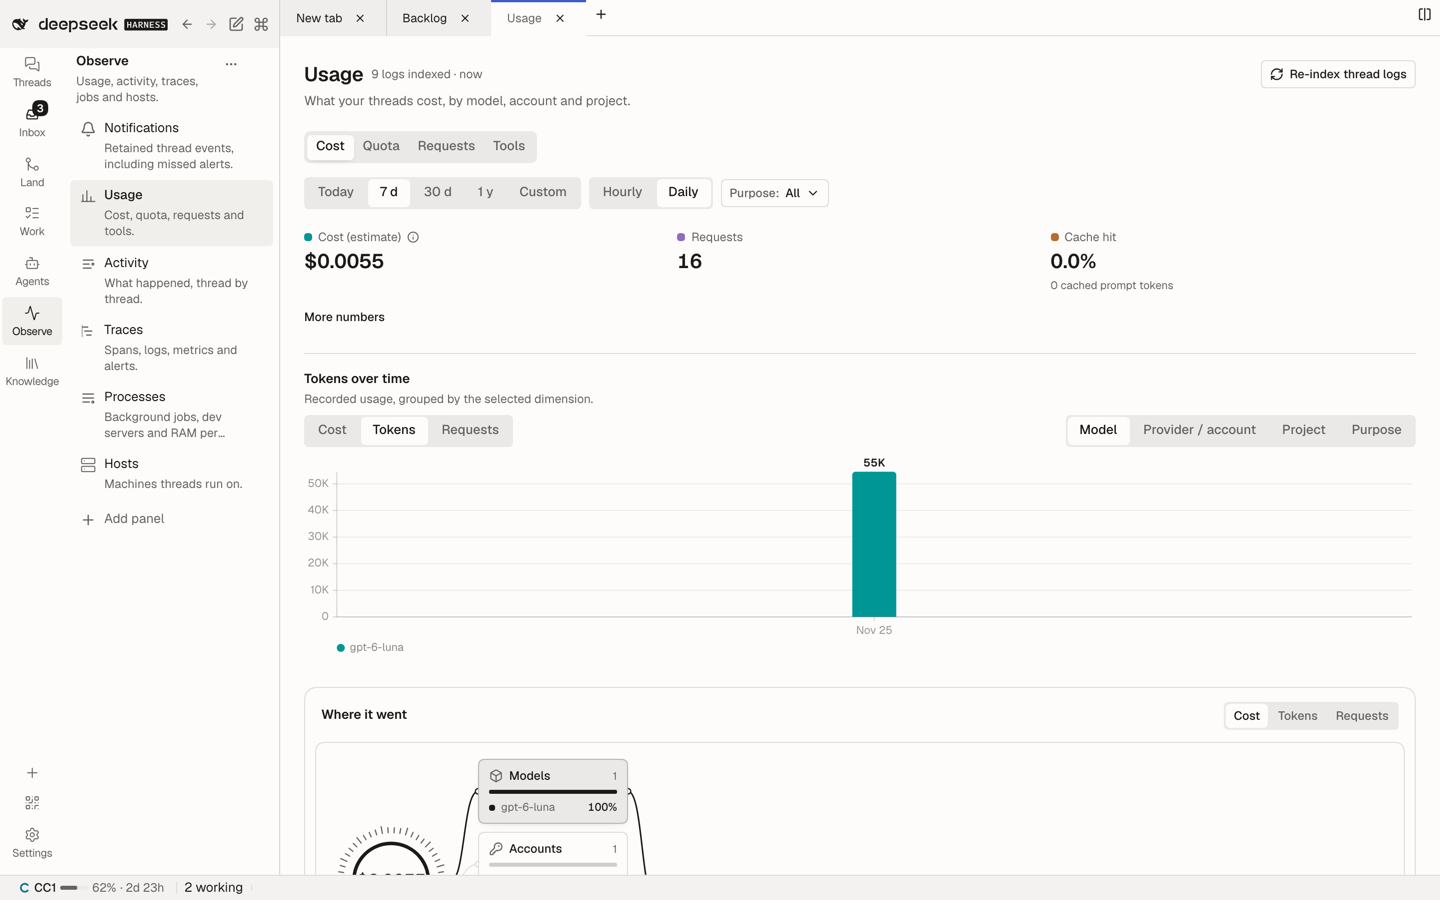
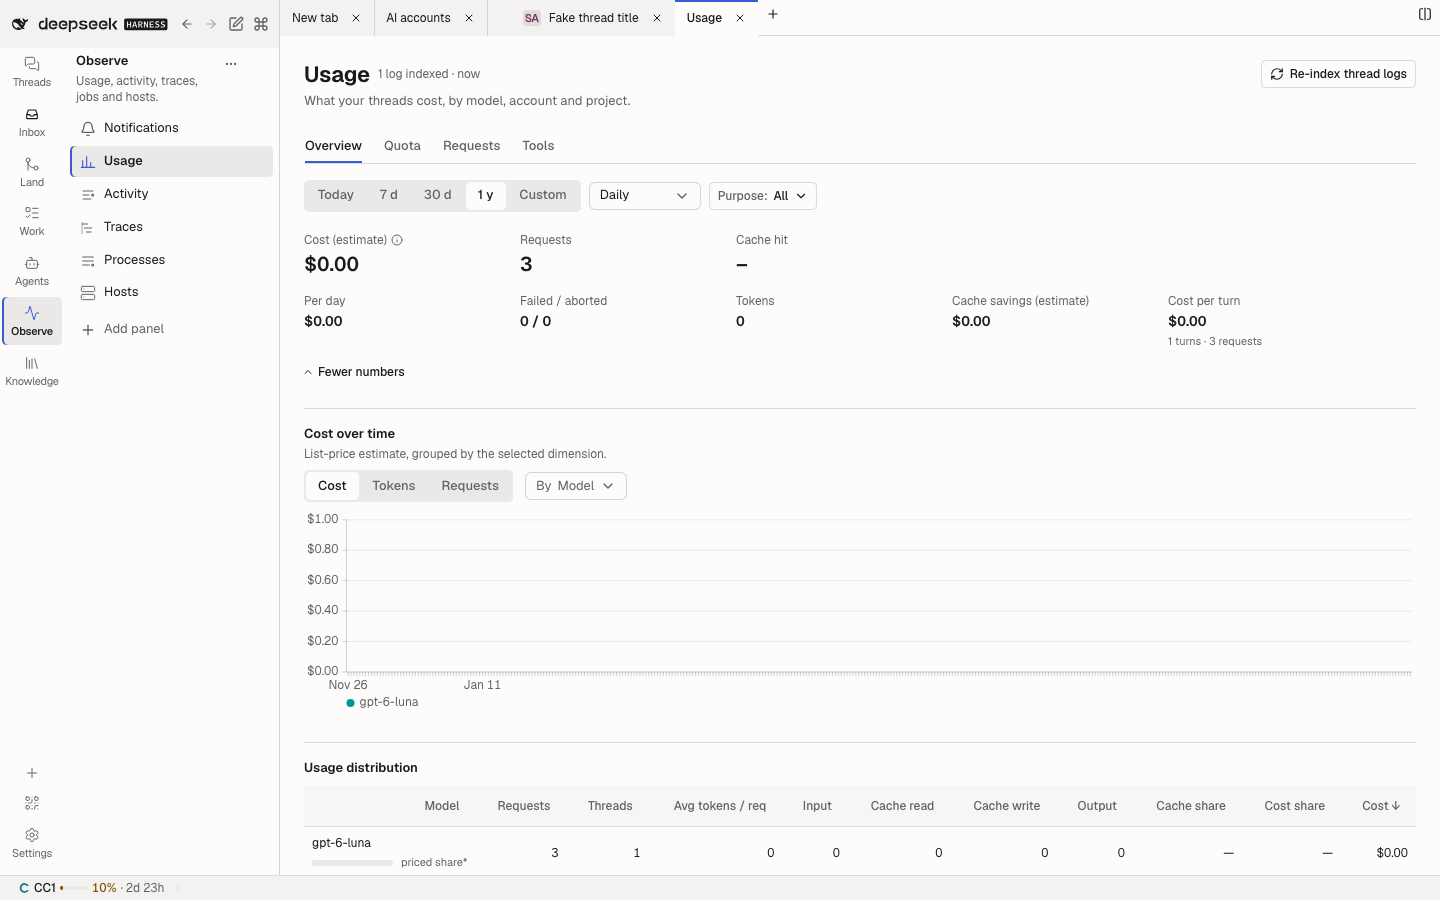
docs(usage,backlog,ai-accounts): refresh the screenshots of the reworked pages
Usage now opens on Overview with grouped numbers, Backlog has underline view tabs in its 920 px lane, and AI accounts' Models tab is the models table alone (council round 3, D1–D3); the README title shots showed the old pages.

diff --git a/plugins/@dshfiles/ai-accounts/README.md b/plugins/@dshfiles/ai-accounts/README.md
@@ -1,6 +1,6 @@
 # AI Accounts
 
-![Reference-faithful Models and inline settings](docs/screenshots/reference-dashboard-models.png)
+![The Models tab: the models table, with the account defaults one link away on Settings](docs/screenshots/reference-dashboard-models.png)
 
 [Settings](docs/screenshots/reference-dashboard-settings.png) · [Usage](docs/screenshots/reference-dashboard-usage.png) · [Design-to-implementation checklist](docs/reference-dashboard.md)
 
